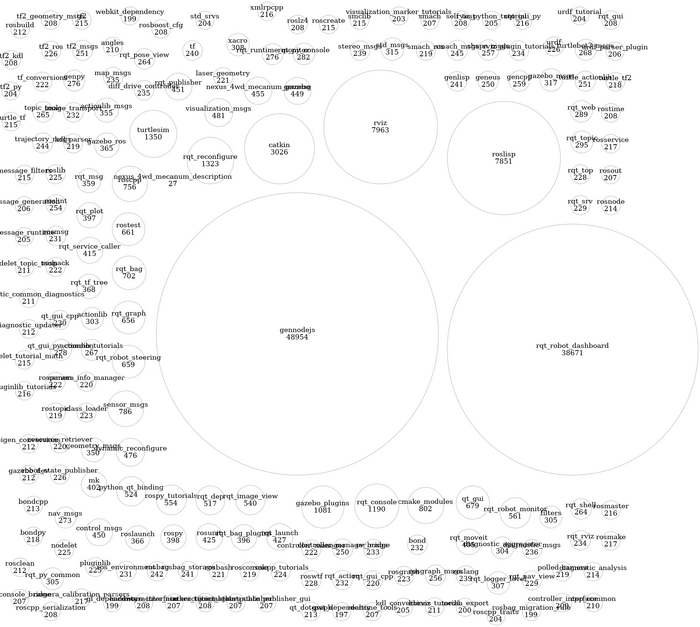
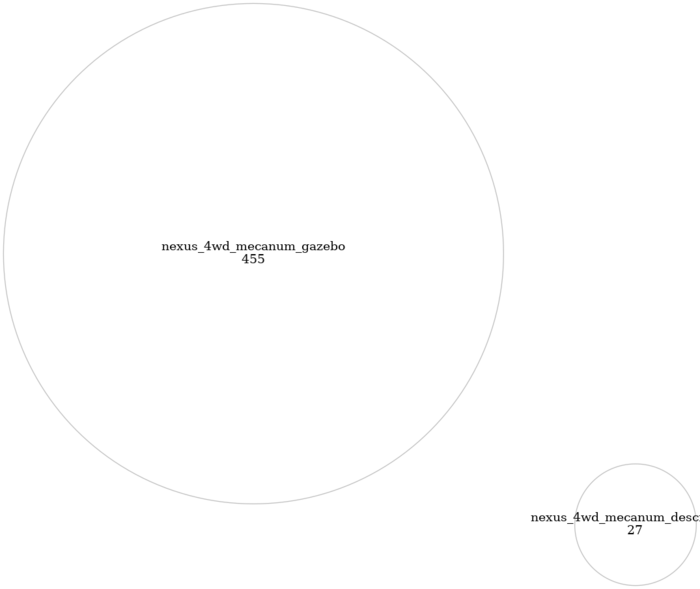
Add packages filtering for code distribution

diff --git a/src/rosdiagram/tool/codedistribution.py b/src/rosdiagram/tool/codedistribution.py
@@ -120,6 +120,7 @@ def configure_parser( parser ):
                          help="Path to JSON file with dumped 'cloc' results" )
     parser.add_argument( '--clocdumpdir', action='store', required=False, default="",
                          help="Path to directory with dumped 'cloc' results" )
+    parser.add_argument( '--filteritems', action='store', required=False, default="", help="File with list of items to filter" )
     parser.add_argument( '--highlight', action='store', required=False, default="",
                          help="List with items to highlight" )
     parser.add_argument( '--outraw', action='store', required=False, default="", help="Graph RAW output" )
@@ -135,16 +136,23 @@ def process_arguments( args ):
     else:
         logging.getLogger().setLevel( logging.INFO )
 
-    highlight_list = []
-    if len( args.highlight ) > 0:
-        highlight_list = read_list( args.highlight )
+    filter_list    = read_list( args.filteritems )
+    highlight_list = read_list( args.highlight )
 
-    graph = None
+    data_dict = {}
     if args.clocjsonpath:
-        graph = generate( args.clocjsonpath )
+        data_dict = read_json_data( args.clocjsonpath )
     elif args.clocdumpdir:
         data_dict = read_dir_data( args.clocdumpdir )
-        graph     = generate_graph( data_dict )
+
+    if filter_list:
+        all_packages = list( data_dict.keys() )
+        for item in all_packages:
+            if item in filter_list:
+                continue
+            del data_dict[ item ]
+
+    graph = generate_graph( data_dict )
 
     if graph != None:
         paint_nodes( graph, highlight_list )

diff --git a/doc/cmd_args_tools.md b/doc/cmd_args_tools.md
@@ -34,6 +34,7 @@ subcommands:
 usage: rosdiagramtools.py codedistribution [-h] [-la]
                                            [--clocjsonpath CLOCJSONPATH]
                                            [--clocdumpdir CLOCDUMPDIR]
+                                           [--filteritems FILTERITEMS]
                                            [--highlight HIGHLIGHT]
                                            [--outraw OUTRAW] [--outpng OUTPNG]
 
@@ -47,6 +48,8 @@ optional arguments:
                         Path to JSON file with dumped 'cloc' results
   --clocdumpdir CLOCDUMPDIR
                         Path to directory with dumped 'cloc' results
+  --filteritems FILTERITEMS
+                        File with list of items to filter
   --highlight HIGHLIGHT
                         List with items to highlight
   --outraw OUTRAW       Graph RAW output
